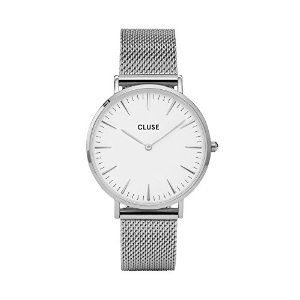
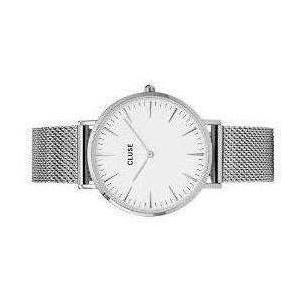
Adds image rotate

Changed region(s): [[0.09, 0.09, 0.9, 0.93], [0.48, 0.48, 0.51, 0.54], [0.45, 0.54, 0.48, 0.57]]

diff --git a/grid/templates/articles/article_detail.html b/grid/templates/articles/article_detail.html
@@ -11,13 +11,16 @@ Detail - {{block.super}}
     {% if article.user.profile.profile_type == 'P'%}
         {% if article.image %}
             <p><img src="{{article.image.url }}"/></p>
+            <p>Rotate <a href="{% url 'rotate_article' article_id=article.id degrees=270 %}">Clockwise</a> | <a href="{% url 'rotate_article' article_id=article.id degrees=90 %}">Counter-clockwise</a></p>
+            </p>
         {% else %}
         <p>No image uploaded.</p>
         {% endif %}
     {% else %}
         {% if article.image_external %}
-            <p><img src="{{article.image_external}}" width="600px"/></p>    
-            {% else %}
+            <p><img src="{{article.image_external}}" width="600px"/></p>
+            <p>Rotate <a href="{% url 'rotate_article' article_id=article.id degrees=90 %}">Clockwise</a> | <a href="{% url 'rotate_article' article_id=article.id degrees=270 %}">Counter-clockwise</a></p>
+        {% else %}
         <p>No image uploaded.</p>
             
         {% endif %}

diff --git a/grid/templates/articles/edit_article.html b/grid/templates/articles/edit_article.html
@@ -5,6 +5,10 @@ Edit - {{block.super}}
 
 {% block content %}
 <p>Edit {{article.name}}</p>
+{% if errors %}
+    {{errors}}
+
+{% endif %}
 <form role="form" action="" method="post" enctype="multipart/form-data">
 {% csrf_token %}
 <p>Name: {{form.name}}</p>

diff --git a/grid/models.py b/grid/models.py
@@ -17,6 +17,8 @@ import tempfile
 def get_image_path(instance, filename):
     return os.path.join('img', slugify(instance.name), filename)
 
+
+
 class Article(models.Model):
 	ARTICLE_TYPES = (
 		('T', 'Top'),
@@ -41,7 +43,7 @@ class Article(models.Model):
 	
 	image = models.ImageField(upload_to=get_image_path, null=True, blank=True)
 	image_external = models.CharField(max_length=255, null=True, blank=True)
-	image_slurp = models.URLField(null=True)
+	image_slurp = models.URLField(null=True, blank=True)
 
 	def get_id(self):
 		return self.id
@@ -62,10 +64,10 @@ class Article(models.Model):
 				self.image.delete(save=False)
 				self.image.save(temp_name, content=ContentFile(new_image_io.getvalue()), save=False)
 		if self.image_slurp:
+			print("image slurp")
 			imgRequest = request.urlopen(self.image_slurp)
 			if imgRequest.status == 200:
 				file_name = self.image_slurp.split('/')[-1]
-				
 				img_temp = NamedTemporaryFile()
 				img_temp.write(imgRequest.read())
 				img_temp.flush()
@@ -74,11 +76,15 @@ class Article(models.Model):
 				img_size = pil_image_obj.size
 				if float(img_size[0]) > 500:
 					new_image = resizeimage.resize_width(pil_image_obj, 500)
-					new_image_io = BytesIO()
-					new_image.save(new_image_io, format='JPEG')
-					temp_name = file_name
-					self.image.delete(save=False)
-					self.image.save(temp_name, content=ContentFile(new_image_io.getvalue()), save=False)
+				else:
+					new_image = pil_image_obj
+				new_image_io = BytesIO()
+				new_image.save(new_image_io, format='JPEG')
+				temp_name = file_name
+				self.image_slurp = None
+				self.image.delete(save=False)
+				self.image.save(temp_name, content=ContentFile(new_image_io.getvalue()), save=False)
+
 		super(Article, self).save(*args, **kwargs)
 
 class Plan(models.Model):

diff --git a/grid/views.py b/grid/views.py
@@ -4,6 +4,10 @@ from grid.forms import ArticleForm, PlanForm, OutfitForm
 from django.http import Http404
 from django.contrib.auth.decorators import login_required
 import random
+import sys
+
+from PIL import Image
+
 
 
 def about(request):
@@ -332,6 +336,31 @@ def new_article(request):
 	return render(request, 'articles/new.html', {'form': form,})
 
 @login_required
+def rotate_article(request, article_id, degrees=None):
+	if degrees == None:
+		degrees = 90
+	article = Article.objects.get(id=article_id)
+	# check for valid user
+	if article.user != request.user:
+		raise Http404
+
+	#opening image for PIL to access
+	im = Image.open(article.image)
+	im2 = im.convert('RGBA')
+	#rotating it by built in PIL command
+	rotated_image = im2.rotate(int(degrees), resample=Image.BICUBIC, expand=True)
+	# a white image same size as rotated image
+	fff = Image.new('RGBA', rotated_image.size, (255,)*4)
+	# create a composite image using the alpha layer of rot as a mask
+	out = Image.composite(rotated_image, fff, rotated_image)
+
+	#saving rotated image instead of original. Overwriting is on. 
+	out.save(article.image.file.name, overwrite=True)
+	return redirect('article_detail', article_id = article.id)
+
+
+
+@login_required
 def edit_article(request, article_id):
 	# grab the object
 	article = Article.objects.get(id=article_id)
@@ -348,6 +377,9 @@ def edit_article(request, article_id):
 			# save the new data
 			form.save()
 			return redirect('article_detail', article_id = article.id)
+		else:
+			return render(request, 'articles/edit_article.html', {'article': article, 'form': form,'errors': form.errors,})
+
 	# otherwise create the form
 	else:
 		form = form_class(instance=article)

diff --git a/capsule_grid/urls.py b/capsule_grid/urls.py
@@ -30,6 +30,8 @@ urlpatterns = [
 	url(r'^articles/(?P<article_id>[0-9]+)/$', views.article_detail, name='article_detail'),
 	# object edit
 	url(r'^articles/(?P<article_id>[-\w]+)/edit/$', views.edit_article, name='edit_article'),
+	url(r'^articles/(?P<article_id>[-\w]+)/rotate/$', views.rotate_article, name='rotate_article'),
+	url(r'^articles/(?P<article_id>[-\w]+)/rotate/(?P<degrees>[0-9]+)$', views.rotate_article, name='rotate_article'),
 	# object delete
 	url(r'^articles/(?P<article_id>[-\w]+)/delete/$', views.delete_article, name='delete_article'),
 	# object new
